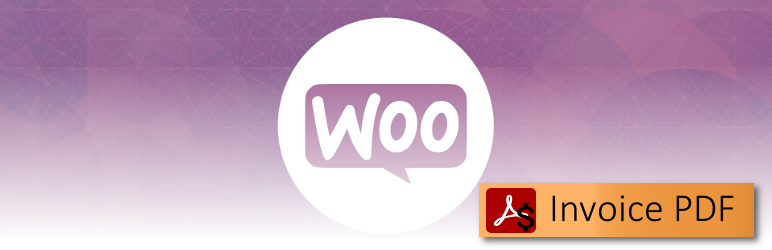
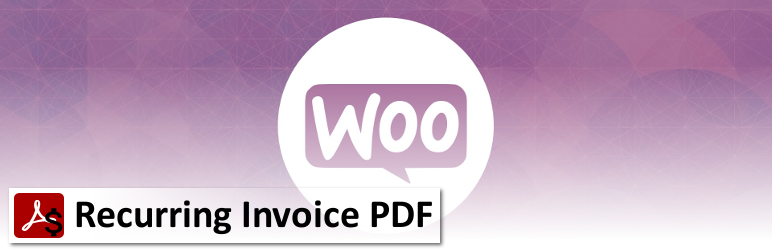
renamed Invoice Pdf to Recurring Invoice Pdf

Changed region(s): [[0.0, 0.728, 0.5907, 1.0], [0.6218, 0.728, 0.9948, 0.98]]

diff --git a/wc-invoice-pdf.php b/wc-invoice-pdf.php
@@ -1,6 +1,6 @@
 <?php
 /*
- * Plugin Name: WC Invoice PDF
+ * Plugin Name: WC Recurring Invoice PDF
  * Description: WooCommerce invoice pdf plugin with recurring payments (scheduled)
  * Version: 1.0.0
  * Author: ole1986 <ole.k@web.de>
